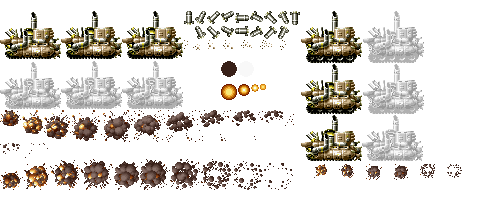
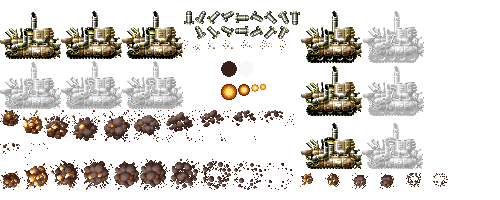
working on miniTank and little change to its spritesheet

Changed region(s): [[0.6, 0.33, 0.93, 0.96], [0.78, 0.33, 0.81, 0.36]]

diff --git a/ModuleSceneLvl3.cpp b/ModuleSceneLvl3.cpp
@@ -115,7 +115,7 @@ bool ModuleSceneLvl3::Start()
 	
 	//load needed audios
 	App->audio->LoadAudio("assets/Audio/Music/song_level_3.ogg", "song_lvl3", MUSIC);
-	App->audio->ControlAudio("song_lvl3", MUSIC, FADEIN, -1, 1500.0f);
+	//App->audio->ControlAudio("song_lvl3", MUSIC, FADEIN, -1, 1500.0f);
 
 	//boss background fade values
 	faded = false;
@@ -301,10 +301,10 @@ bool ModuleSceneLvl3::CleanUp()
 void ModuleSceneLvl3::addEnemiesToLvl3()
 {
 	// first ADD submarine ( for draw circunstances )
-	App->enemies->AddEnemy(ENEMY_TYPES::SUBMARINE, 0, 60, NONE);
+	//App->enemies->AddEnemy(ENEMY_TYPES::SUBMARINE, 0, 60, NONE);
 
 	//First Wave
-	App->enemies->AddEnemy(ENEMY_TYPES::REDBIRD, 300, 35, NONE);
+	/*App->enemies->AddEnemy(ENEMY_TYPES::REDBIRD, 300, 35, NONE);
 	App->enemies->AddEnemy(ENEMY_TYPES::REDBIRD, 300, 90, NONE);
 	App->enemies->AddEnemy(ENEMY_TYPES::REDBIRD, 342, 35, NONE);
 	App->enemies->AddEnemy(ENEMY_TYPES::REDBIRD, 342, 90, NONE);
@@ -346,7 +346,7 @@ void ModuleSceneLvl3::addEnemiesToLvl3()
 	App->enemies->AddEnemy(ENEMY_TYPES::REDBIRD, 9210, 45, NONE);
 	App->enemies->AddEnemy(ENEMY_TYPES::REDBIRD, 9240, 45, NONE);
 	App->enemies->AddEnemy(ENEMY_TYPES::REDBIRD, 9270, 45, NONE);
-	App->enemies->AddEnemy(ENEMY_TYPES::REDBIRD, 9300, 45, NONE);
+	App->enemies->AddEnemy(ENEMY_TYPES::REDBIRD, 9300, 45, NONE);*/
 	//-----------------------------------------------------------
 
 	// Enemy POWERUP BEE
@@ -482,7 +482,7 @@ void ModuleSceneLvl3::addEnemiesToLvl3()
 	//--------------------------------------------------------------------
 
 	// Enemy Lamella
-	App->enemies->AddEnemy(ENEMY_TYPES::LAMELLA, 200, 80, NONE);
+	//App->enemies->AddEnemy(ENEMY_TYPES::LAMELLA, 200, 80, NONE);
 	//App->enemies->AddEnemy(ENEMY_TYPES::LAMELLA, 0, 80, NONE);
 
 	//Enemy Diver

diff --git a/EnemyMiniTank.h b/EnemyMiniTank.h
@@ -8,12 +8,12 @@
 class Enemy_MiniTank : public Enemy
 {
 private:
-	Path path;
+	/*Path path;
 	iPoint original_pos;
 	Animation move, move2, damage, damage2;
-	Animation * shootanimation;
-	Animation* shootanimationdamage;
-	Animation * current_animation;
+	Animation * shootanimation = nullptr;
+	Animation* shootanimationdamage = nullptr;
+	Animation * current_animation = nullptr;
 	Animation missilelaunch;
 	Animation missileexplode;
 	Animation missile;
@@ -23,7 +23,36 @@ private:
 	Uint32 start_damage_time;
 	Uint32 nowDamagetime;
 	Uint32 damageAnimTime;
-	float current_frame;
+	float current_frame;*/
+
+	// --------------------------------------------
+
+	enum swapAnimType
+	{
+		NORMAL_ANIM,
+		DAMAGE_ANIM
+	};
+
+	struct miniTank
+	{
+
+		Collider* leftCol = nullptr;
+		Collider* rightCol = nullptr;
+		Animation moveAnim[2]; // normal and take damage
+		Animation shootAnim[2]; // normal and take damage
+		Animation dustAnim; // particles of wheel chains
+		Animation shotSmokeAnim; // particles when enemy shoots
+		Animation* current_animation = nullptr;
+		const int maxTravelDistance = 100;
+		int currentTraveledDistance;
+		bool travelDone = false;
+		// timers
+		Uint32 start_shot_time;
+		Uint32 now_shot_time;
+		Uint32 cadence_between_shots = 2000; // testing value
+		float current_frame;
+
+	};
 
 public:
 
@@ -32,6 +61,8 @@ public:
 	void Move();
 	void Draw();
 	void OnCollision(Collider* collider, Collider* collider2);
+
+	miniTank cartePillar;
 };
 
 

diff --git a/EnemyLamella.h b/EnemyLamella.h
@@ -41,7 +41,7 @@ private:
 	Animation moveAnim;
 	Animation despawnAnim;
 
-	Animation* currentAnimation;
+	Animation* currentAnimation = nullptr;
 
 	iPoint originalPos;
 
